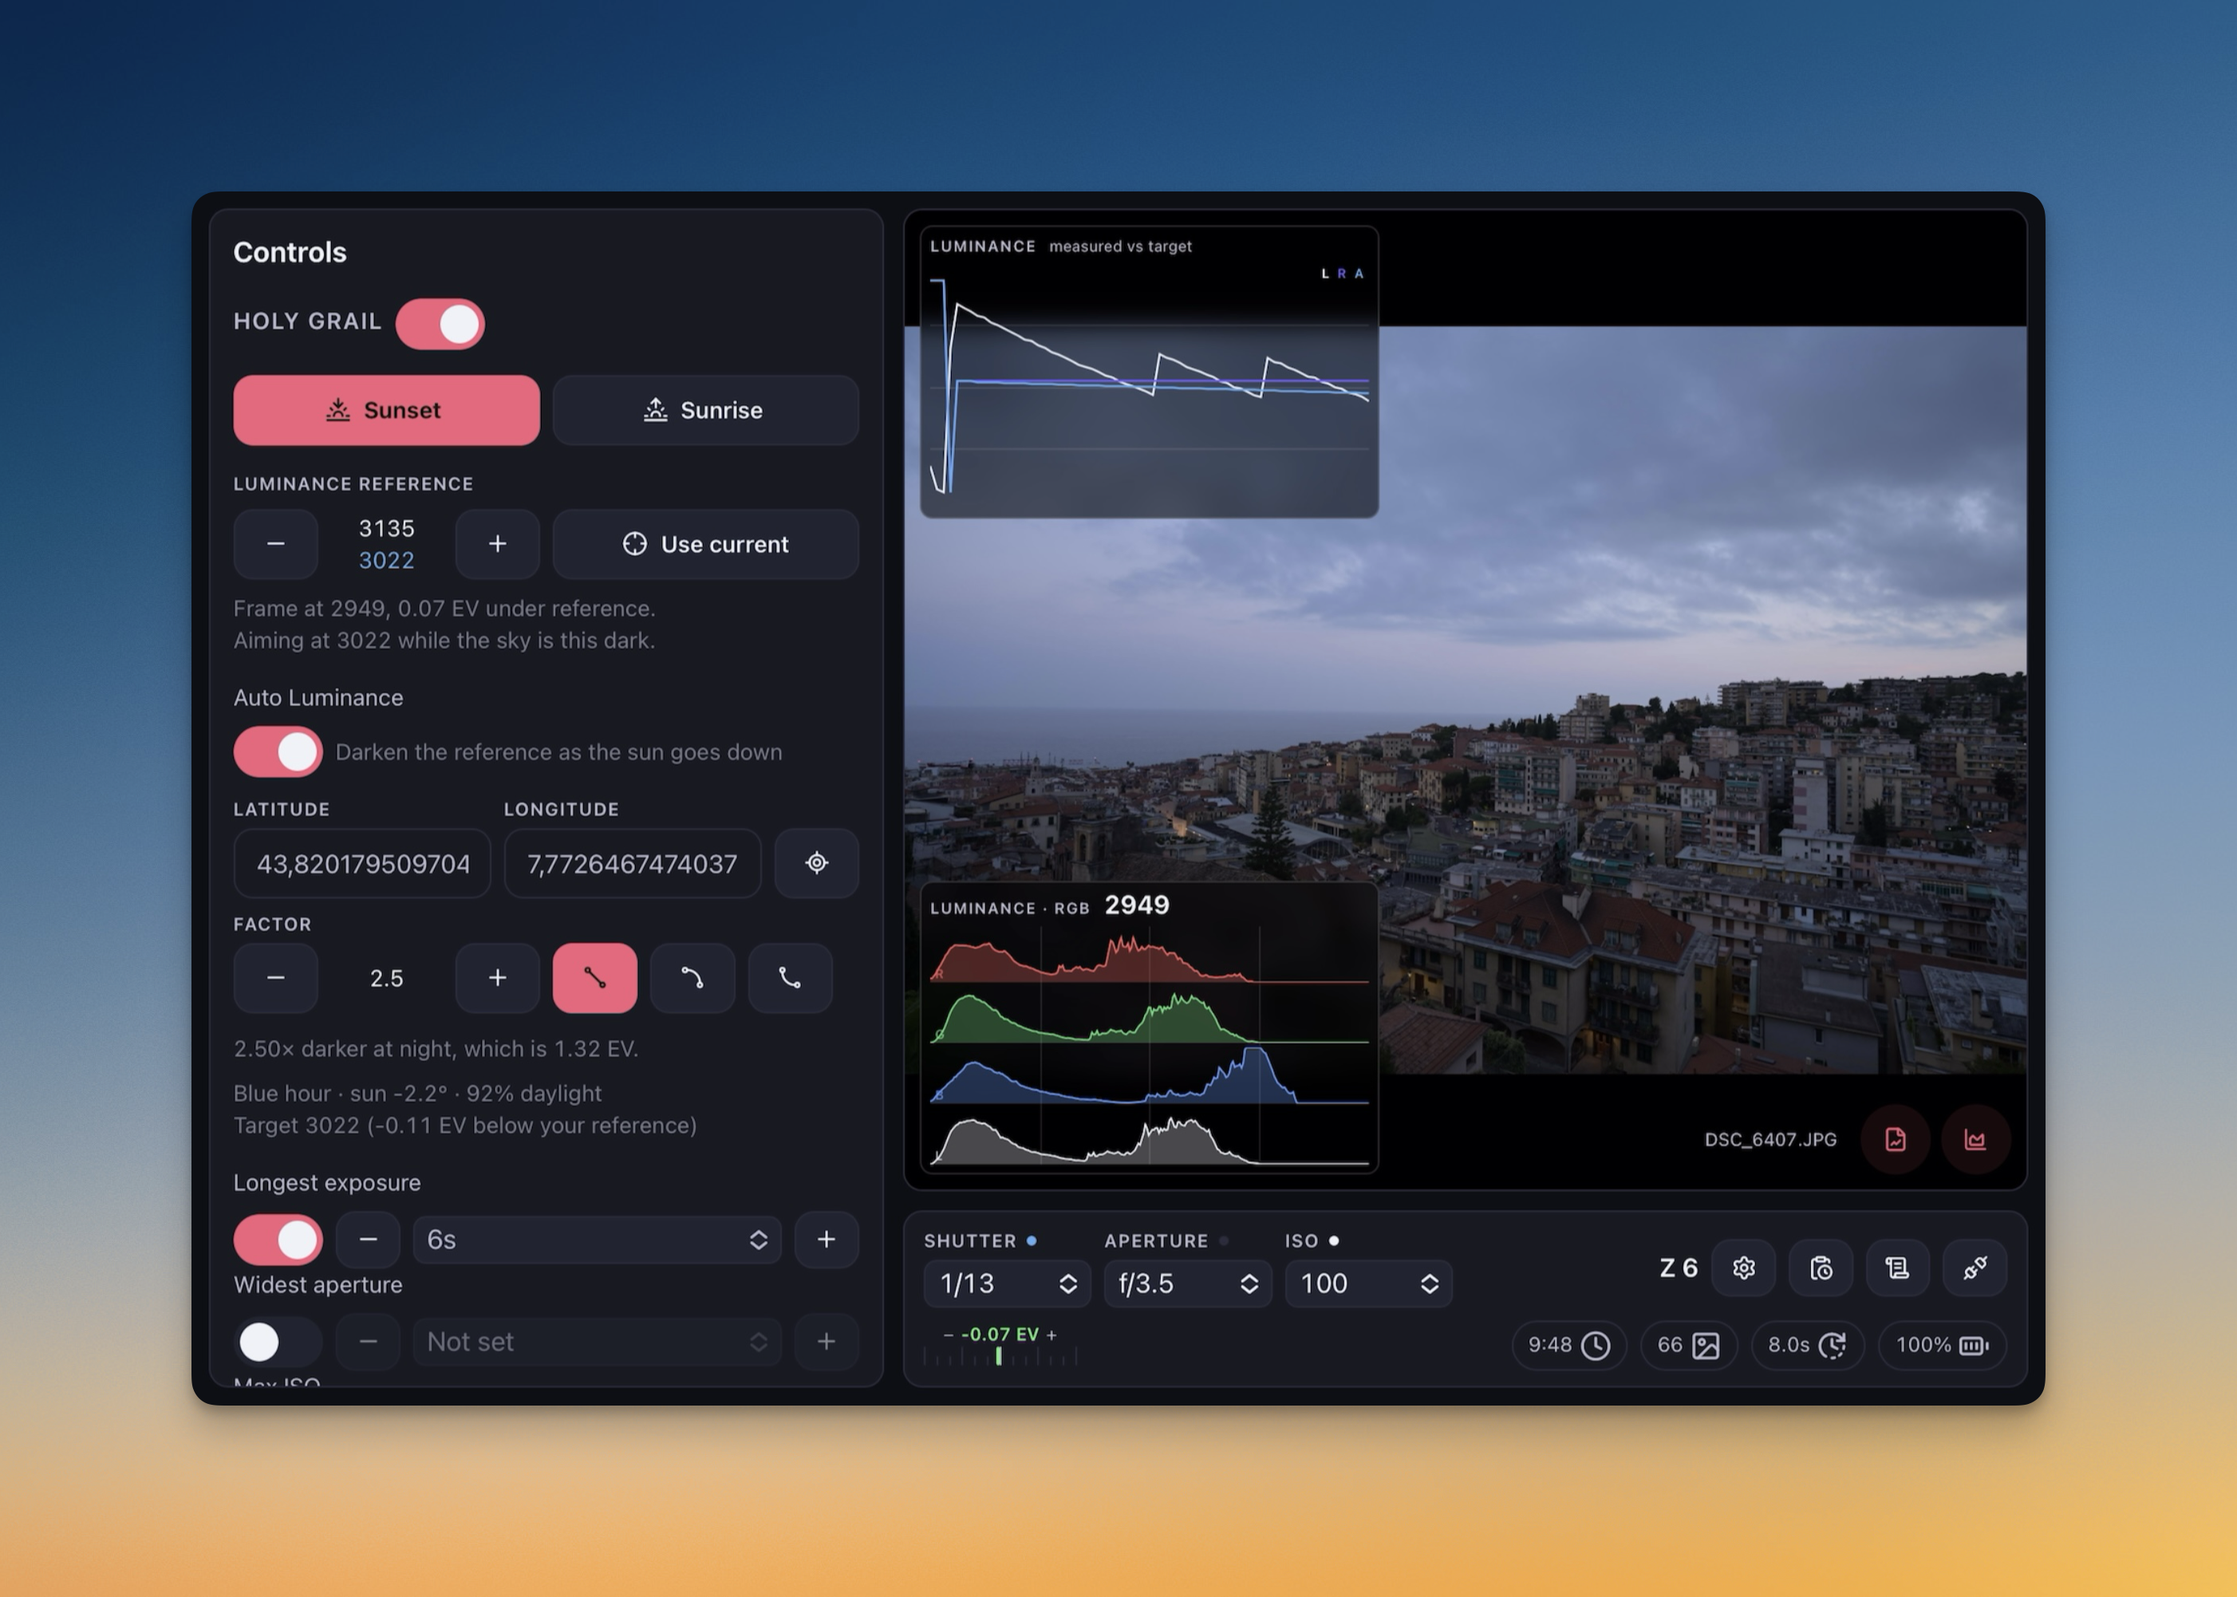
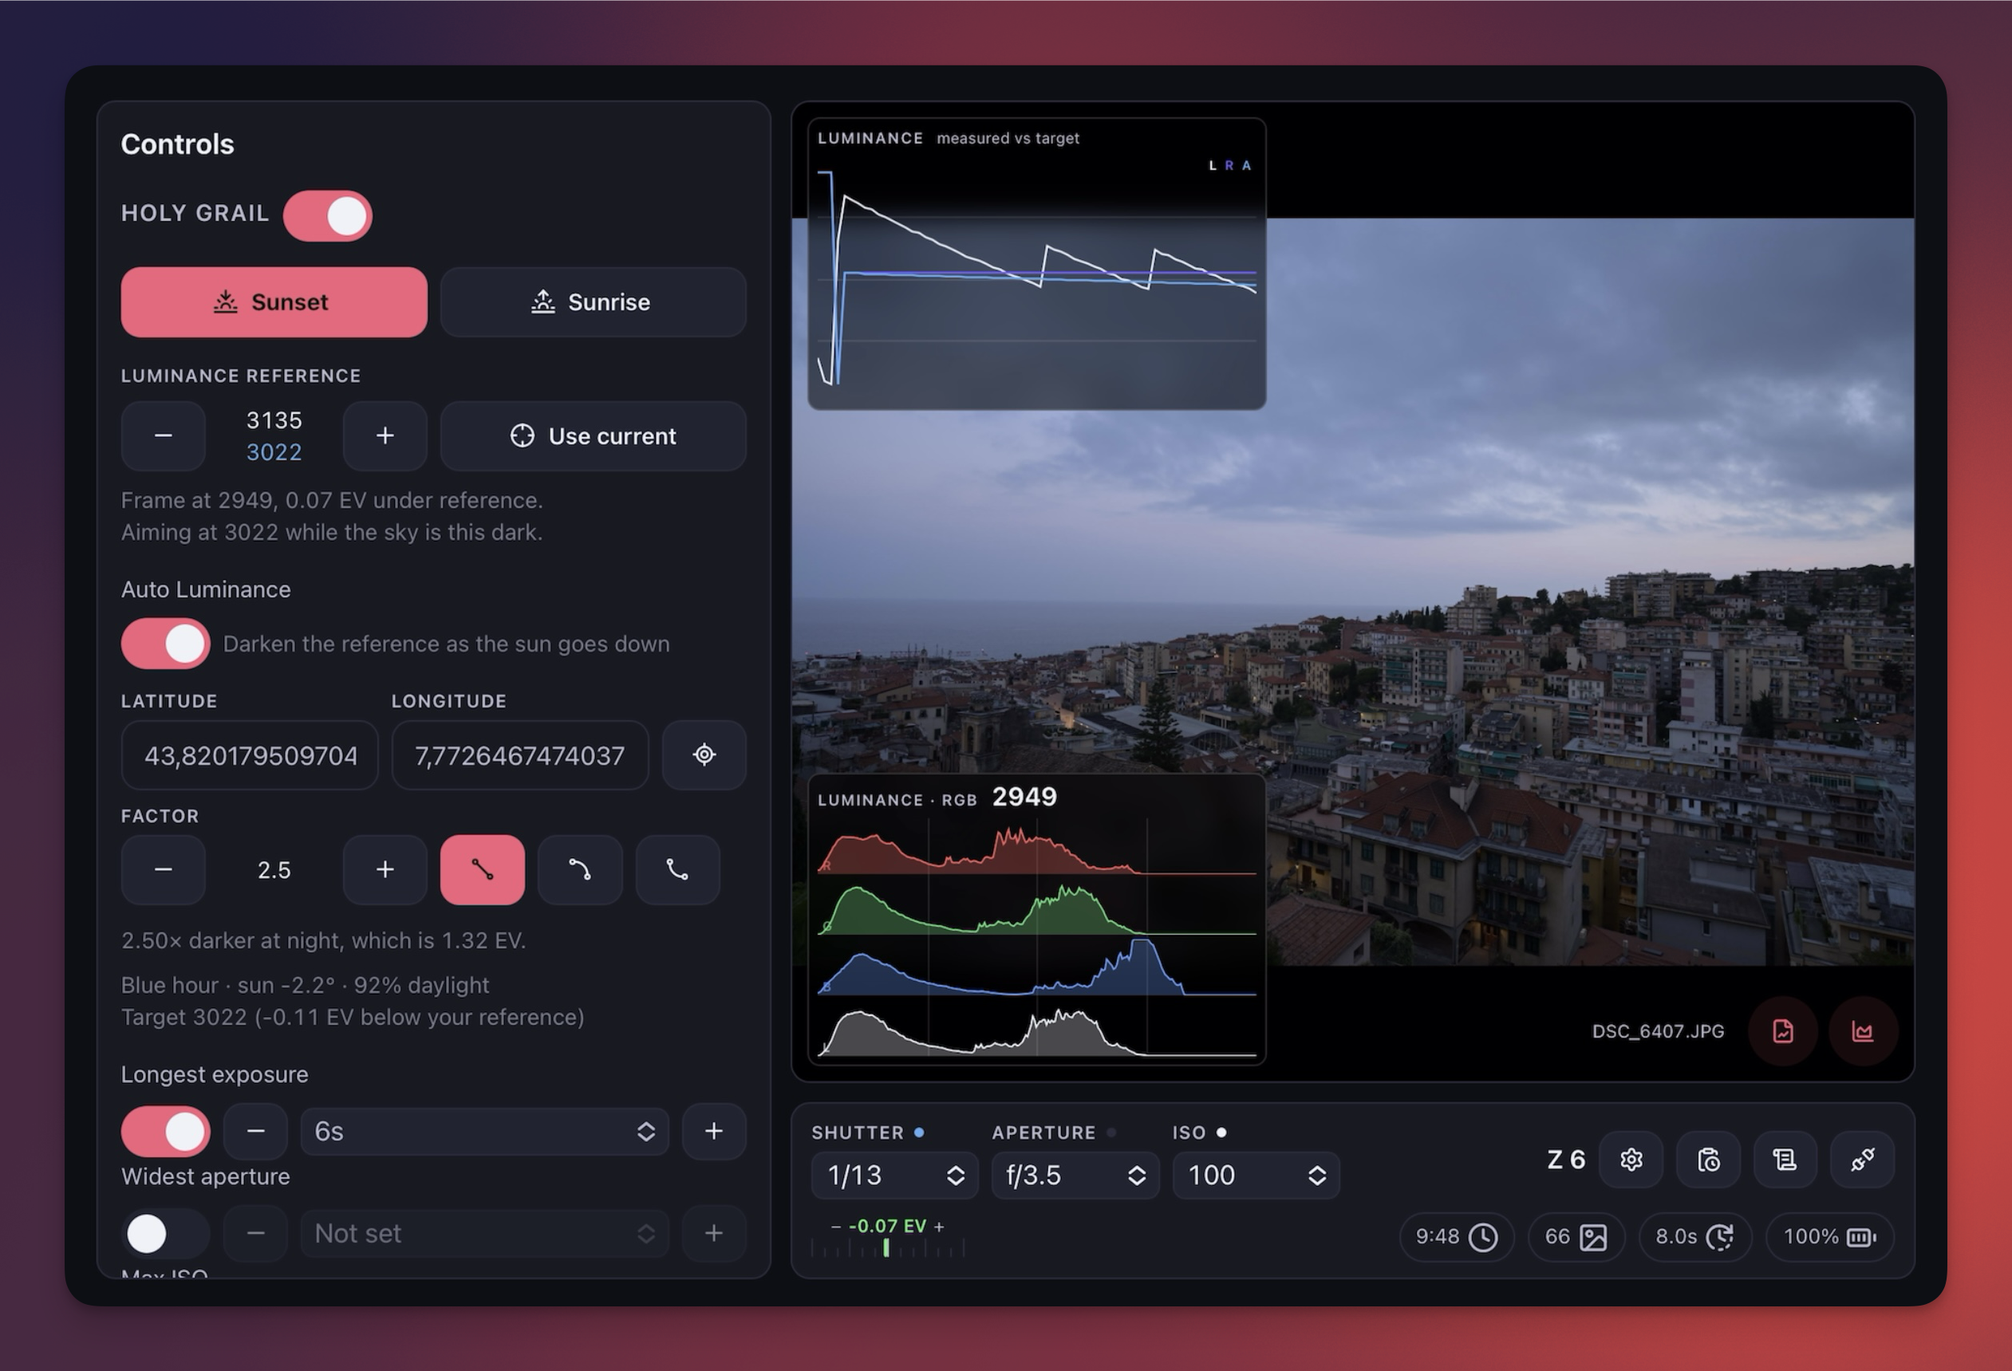
docs: update homepage design

diff --git a/docs/src/components/Hero.tsx b/docs/src/components/Hero.tsx
@@ -1,0 +1,89 @@
+import { ChevronRightIcon } from "lucide-react";
+import React from "react";
+import "../css/tailwind.css";
+import Link from "@docusaurus/Link";
+import { useQuery } from "@tanstack/react-query";
+
+export default function Hero() {
+    const query = useQuery({
+        queryKey: ["latest-version"],
+        queryFn: () => fetch("https://api.github.com/repos/gr3enk/dusklapse/releases/latest").then((res) => res.json()),
+    });
+
+    const latestVersion = query.data?.tag_name ?? "";
+
+    return (
+        <div className="tw">
+            <svg
+                aria-hidden="true"
+                className="absolute inset-0 -z-10 size-full mask-[radial-gradient(100%_100%_at_top_right,white,transparent)] stroke-gray-200"
+            >
+                <defs>
+                    <pattern
+                        x="50%"
+                        y={-1}
+                        id="0787a7c5-978c-4f66-83c7-11c213f99cb7"
+                        width={200}
+                        height={200}
+                        patternUnits="userSpaceOnUse"
+                    >
+                        <path d="M.5 200V.5H200" fill="none" />
+                    </pattern>
+                </defs>
+                <rect fill="url(#0787a7c5-978c-4f66-83c7-11c213f99cb7)" width="100%" height="100%" strokeWidth={0} />
+            </svg>
+            <div className="relative isolate overflow-hidden bg-linear-to-b from-primary/2">
+                <div className="mx-auto max-w-7xl pt-10 pb-24 sm:pb-32 lg:grid lg:grid-cols-2 lg:gap-x-8 lg:px-8 lg:py-40">
+                    <div className="px-6 lg:px-0 lg:pt-8 xl:pt-16 ">
+                        <div className="mx-auto max-w-2xl">
+                            <div className="max-w-lg">
+                                <img alt="Dusklapse" src="/img/app-icon-rounded-no-padding.webp" className="size-20!" />
+                                <div className="mt-24 sm:mt-16 lg:mt-16">
+                                    <a
+                                        href="https://github.com/gr3enk/dusklapse/releases/latest"
+                                        target="_blank"
+                                        rel="noopener noreferrer"
+                                        className="inline-flex space-x-6"
+                                    >
+                                        <span className="inline-flex items-center rounded-full bg-primary/10 px-3 py-1 text-sm/6 font-semibold text-primary ring-1 ring-primary/20 ring-inset">
+                                            {latestVersion === "" ? "Latest version" : `Version ${latestVersion}`}
+                                            <ChevronRightIcon aria-hidden="true" className="size-5 text-primary" />
+                                        </span>
+                                        <span className="inline-flex items-center space-x-2 text-sm/6 font-medium text-gray-600"></span>
+                                    </a>
+                                </div>
+                                <h1 className="mt-10! text-5xl! font-semibold! tracking-tight! text-pretty! text-gray-900! sm:text-7xl!">
+                                    Dusklapse
+                                </h1>
+                                <p className="mt-8 text-lg font-medium text-pretty text-gray-500 sm:text-xl/8">
+                                    Shoot perfectly exposed day-to-night time-lapses with ease
+                                </p>
+                                <div className="mt-10 flex items-center gap-x-6">
+                                    <Link
+                                        className="rounded-md bg-primary px-3.5 py-2.5 text-sm font-semibold transition-colors! hover:no-underline! text-white! shadow-xs hover:bg-primary/80 focus-visible:outline-2 focus-visible:outline-offset-2 focus-visible:outline-primary"
+                                        to="/docs/intro"
+                                    >
+                                        Documentation
+                                    </Link>
+                                    <Link
+                                        className="text-sm/6 font-semibold text-gray-900"
+                                        href="https://github.com/gr3enk/dusklapse"
+                                    >
+                                        View on GitHub <span aria-hidden="true">→</span>
+                                    </Link>
+                                </div>
+                            </div>
+                        </div>
+                    </div>
+                    <div className="mt-20 sm:mt-24 md:mx-auto md:max-w-2xl lg:mx-0 lg:mt-0 lg:w-screen">
+                        <img
+                            src="/img/interface_1.webp"
+                            alt="Dusklapse interface"
+                            className="w-full shadow-lg md:rounded-3xl lg:w-5xl! lg:max-w-none! xl:w-6xl!"
+                        />
+                    </div>
+                </div>
+            </div>
+        </div>
+    );
+}

diff --git a/docs/src/components/Features.tsx b/docs/src/components/Features.tsx
@@ -1,0 +1,71 @@
+import { CodeXmlIcon, NetworkIcon, TabletSmartphoneIcon, WrenchIcon } from "lucide-react";
+import React from "react";
+
+const features = [
+    {
+        name: "Intuitive Interface",
+        description:
+            "Dusklapse features an intuitive interface that allows you to easily create and manage your holy-grail time-lapse sequences. The app is designed to be user-friendly and easy to use, with a focus on simplicity and efficiency.",
+        icon: TabletSmartphoneIcon,
+    },
+    {
+        name: "Customizable",
+        description:
+            "Dusklapse allows you to customize your time-lapse sequences to your needs. You can control the exposure time, aperture and ISO settings to your liking, and the app will adjust them automatically to capture the perfect time-lapse footage.",
+        icon: WrenchIcon,
+    },
+    {
+        name: "Compatible with multiple cameras",
+        description:
+            "Dusklapse is compatible with multiple cameras, including DSLRs, DSLMs and mirrorless cameras from various manufacturers.",
+        icon: NetworkIcon,
+    },
+
+    {
+        name: "Open Source",
+        description:
+            "Dusklapse is open source and free to use. The app is licensed under the MIT license, which means you can use it for free and modify it to your needs.",
+        icon: CodeXmlIcon,
+    },
+];
+
+export default function Features() {
+    return (
+        <div className="tw">
+            <div className="bg-white py-18 sm:py-18">
+                <div className="mx-auto max-w-7xl px-6 lg:px-8">
+                    <div className="mx-auto max-w-2xl lg:text-center">
+                        <h2 className="text-base/7 font-semibold text-primary!">Seemless Timelapse Control</h2>
+                        <p className="mt-2 text-4xl font-semibold tracking-tight text-pretty text-gray-900 sm:text-5xl lg:text-balance">
+                            Holy-grail timelapse control for networked cameras
+                        </p>
+                        <p className="mt-6 text-lg/8 text-gray-700">
+                            Dusklapse is an app for creating day-to-night or night-to-day time-lapses (the so-called
+                            Holy Grail) using DSLR / DSLM cameras.
+                        </p>
+                        <p className="mt-6 text-lg/8 text-gray-700">
+                            The app connects to your camera via Wi-Fi and adjusts your camera’s exposure time, aperture
+                            and ISO settings to pre-defined limits, enabling you to capture time-lapse footage with
+                            significant changes in light, such as from day to night or vice versa.
+                        </p>
+                    </div>
+                    <div className="mx-auto mt-16 max-w-2xl sm:mt-20 lg:mt-24 lg:max-w-4xl">
+                        <dl className="grid max-w-xl grid-cols-1 gap-x-8 gap-y-10 lg:max-w-none lg:grid-cols-2 lg:gap-y-16">
+                            {features.map((feature) => (
+                                <div key={feature.name} className="relative pl-16">
+                                    <dt className="text-base/7 font-semibold text-gray-900">
+                                        <div className="absolute top-0 left-0 flex size-11 items-center justify-center rounded-lg bg-primary">
+                                            <feature.icon aria-hidden="true" className="size-6 text-white" />
+                                        </div>
+                                        {feature.name}
+                                    </dt>
+                                    <dd className="mt-2 text-base/7 text-gray-600 ml-0!">{feature.description}</dd>
+                                </div>
+                            ))}
+                        </dl>
+                    </div>
+                </div>
+            </div>
+        </div>
+    );
+}

diff --git a/docs/src/components/Waitlist.tsx b/docs/src/components/Waitlist.tsx
@@ -1,0 +1,66 @@
+import React from "react";
+
+export default function Waitlist() {
+    return (
+        <div className="tw">
+            <div className="bg-white py-16 sm:py-24">
+                <div className="mx-auto max-w-7xl sm:px-6 lg:px-8">
+                    <div className="relative isolate overflow-hidden bg-gray-900 px-6 py-24 shadow-2xl sm:rounded-3xl sm:px-24 xl:py-32">
+                        <h2 className=" text-center! mx-auto! max-w-3xl! text-4xl! font-semibold! tracking-tight! text-white! sm:text-5xl!">
+                            Get notified when we’re launching
+                        </h2>
+                        <p className="mx-auto! mt-6! max-w-lg! text-center! text-lg! text-gray-300!">
+                            Be the first to know when Dusklapse is released.
+                        </p>
+                        <form className="mx-auto mt-10 flex max-w-md gap-x-4">
+                            <label htmlFor="email-address" className="sr-only">
+                                Email address
+                            </label>
+                            <input
+                                id="email-address"
+                                name="email"
+                                type="email"
+                                required
+                                placeholder="Enter your email"
+                                autoComplete="email"
+                                className="border-none! min-w-0! flex-auto! rounded-md! bg-white/5! px-3.5! py-2! text-base! text-white! outline-1! -outline-offset-1! outline-white/10! placeholder:text-gray-400! focus:outline-2 focus:-outline-offset-2 focus:outline-primary/40! sm:text-sm/6!"
+                            />
+                            <button
+                                type="submit"
+                                className="cursor-pointer! border-none! flex-none! rounded-md! bg-white! px-3.5! py-2.5! text-sm! font-semibold! text-gray-900! shadow-xs! hover:bg-gray-100! focus-visible:outline-2 focus-visible:outline-offset-2 focus-visible:outline-white!"
+                            >
+                                Notify me
+                            </button>
+                        </form>
+                        <svg
+                            viewBox="0 0 1024 1024"
+                            aria-hidden="true"
+                            className="absolute top-1/2 left-1/2 -z-10 size-256 -translate-x-1/2"
+                        >
+                            <circle
+                                r={512}
+                                cx={512}
+                                cy={512}
+                                fill="url(#759c1415-0410-454c-8f7c-9a820de03641)"
+                                fillOpacity="0.7"
+                            />
+                            <defs>
+                                <radialGradient
+                                    r={1}
+                                    cx={0}
+                                    cy={0}
+                                    id="759c1415-0410-454c-8f7c-9a820de03641"
+                                    gradientUnits="userSpaceOnUse"
+                                    gradientTransform="translate(512 512) rotate(90) scale(512)"
+                                >
+                                    <stop stopColor="#eb123aaa" />
+                                    <stop offset={1} stopColor="#eb123a" stopOpacity={0} />
+                                </radialGradient>
+                            </defs>
+                        </svg>
+                    </div>
+                </div>
+            </div>
+        </div>
+    );
+}

diff --git a/docs/src/pages/index.tsx b/docs/src/pages/index.tsx
@@ -5,6 +5,10 @@ import Layout from "@theme/Layout";
 import Heading from "@theme/Heading";
 
 import styles from "./index.module.css";
+import Hero from "../components/Hero";
+import Providers from "../providers";
+import Features from "../components/Features";
+import Waitlist from "../components/Waitlist";
 
 /**
  * The landing page.
@@ -18,37 +22,11 @@ export default function Home(): ReactNode {
 
     return (
         <Layout title={siteConfig.title} description={siteConfig.tagline}>
-            <header className={styles.hero}>
-                <div className="container">
-                    <Heading as="h1" className={styles.title}>
-                        {siteConfig.title}
-                    </Heading>
-                    <p className={styles.tagline}>{siteConfig.tagline}</p>
-                    <p className={styles.summary}>
-                        Dusklapse is an app for creating day-to-night or night-to-day time-lapses (the so-called Holy
-                        Grail) using DSLR / DSLM cameras.
-                        <br />
-                        <br />
-                        The app connects to your camera via Wi-Fi and adjusts your camera’s exposure time, aperture and
-                        ISO settings to pre-defined limits, enabling you to capture time-lapse footage with significant
-                        changes in light, such as from day to night or vice versa.
-                    </p>
-                    <div className={styles.actions}>
-                        <Link className="button button--primary button--lg" to="/docs/intro">
-                            Read the docs
-                        </Link>
-                        <Link
-                            className="button button--secondary button--lg"
-                            href="https://github.com/gr3enk/dusklapse"
-                        >
-                            GitHub
-                        </Link>
-                    </div>
-                </div>
-            </header>
-            <div className="">
-                <img src="/img/interface_1.webp" alt="Dusklapse Screenshot" />
-            </div>
+            <Providers>
+                <Hero />
+                <Features />
+                {/* <Waitlist /> */}
+            </Providers>
         </Layout>
     );
 }

diff --git a/docs/src/css/tailwind.css b/docs/src/css/tailwind.css
@@ -21,3 +21,7 @@
 }
 
 @custom-variant dark (&:is([data-theme="dark"] *));
+
+@theme {
+    --color-primary: var(--ifm-color-primary);
+}
